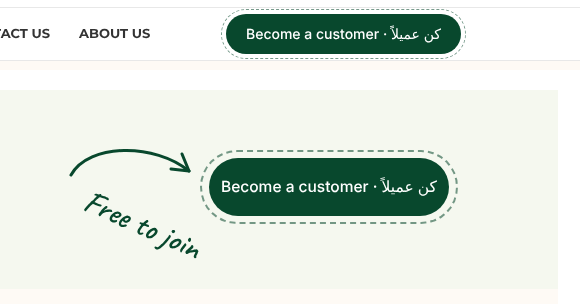
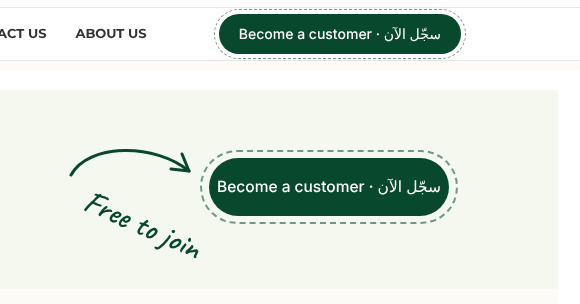
Hero shelf v1.5.2: Arabic button text 'سجّل الآن'
Claude-Session: https://claude.ai/code/session_014cGLw5qhmScv3qrpJ3Aqqw

diff --git a/souriana-hero-shelf/assets/header.css b/souriana-hero-shelf/assets/header.css
@@ -36,7 +36,7 @@
 }
 .whb-header .wd-button-wrapper > a.btn[href*="become-a-customer"]::before,
 .whb-clone .wd-button-wrapper > a.btn[href*="become-a-customer"]::before {
-	content: "Become a customer · كن عميلاً";
+	content: "Become a customer · سجّل الآن";
 	font-family: "Inter", system-ui, -apple-system, "Segoe UI", sans-serif;
 	font-size: 14px;
 	font-weight: 500;

diff --git a/souriana-hero-shelf/souriana-hero-shelf.php b/souriana-hero-shelf/souriana-hero-shelf.php
@@ -2,7 +2,7 @@
 /**
  * Plugin Name: Souriana Hero Shelf
  * Description: Animated curved product shelf at the top of the homepage only. Shows best-selling products in order; visitors can drag through them. Does not change any other page, product, price or setting. Deactivate to remove it completely.
- * Version: 1.5.1
+ * Version: 1.5.2
  * Author: Souriana Golden
  * Requires PHP: 7.4
  * Text Domain: souriana-hero-shelf
@@ -14,7 +14,7 @@ if ( ! defined( 'ABSPATH' ) ) {
 
 final class Souriana_Hero_Shelf {
 
-	const VERSION   = '1.5.1';
+	const VERSION   = '1.5.2';
 	const CACHE_KEY = 'souriana_hero_shelf_products_v1';
 	const CATS_KEY  = 'souriana_hero_shelf_aisles_v1';
 	const MAX_ITEMS = 14;
@@ -330,7 +330,7 @@ final class Souriana_Hero_Shelf {
 
 		<div class="shs-cta">
 			<span class="shs-ring" aria-hidden="true"></span>
-			<a class="shs-btn" href="<?php echo esc_url( $join ); ?>">Become a customer · كن عميلاً</a>
+			<a class="shs-btn" href="<?php echo esc_url( $join ); ?>">Become a customer · سجّل الآن</a>
 		</div>
 	</div>
 </section>
